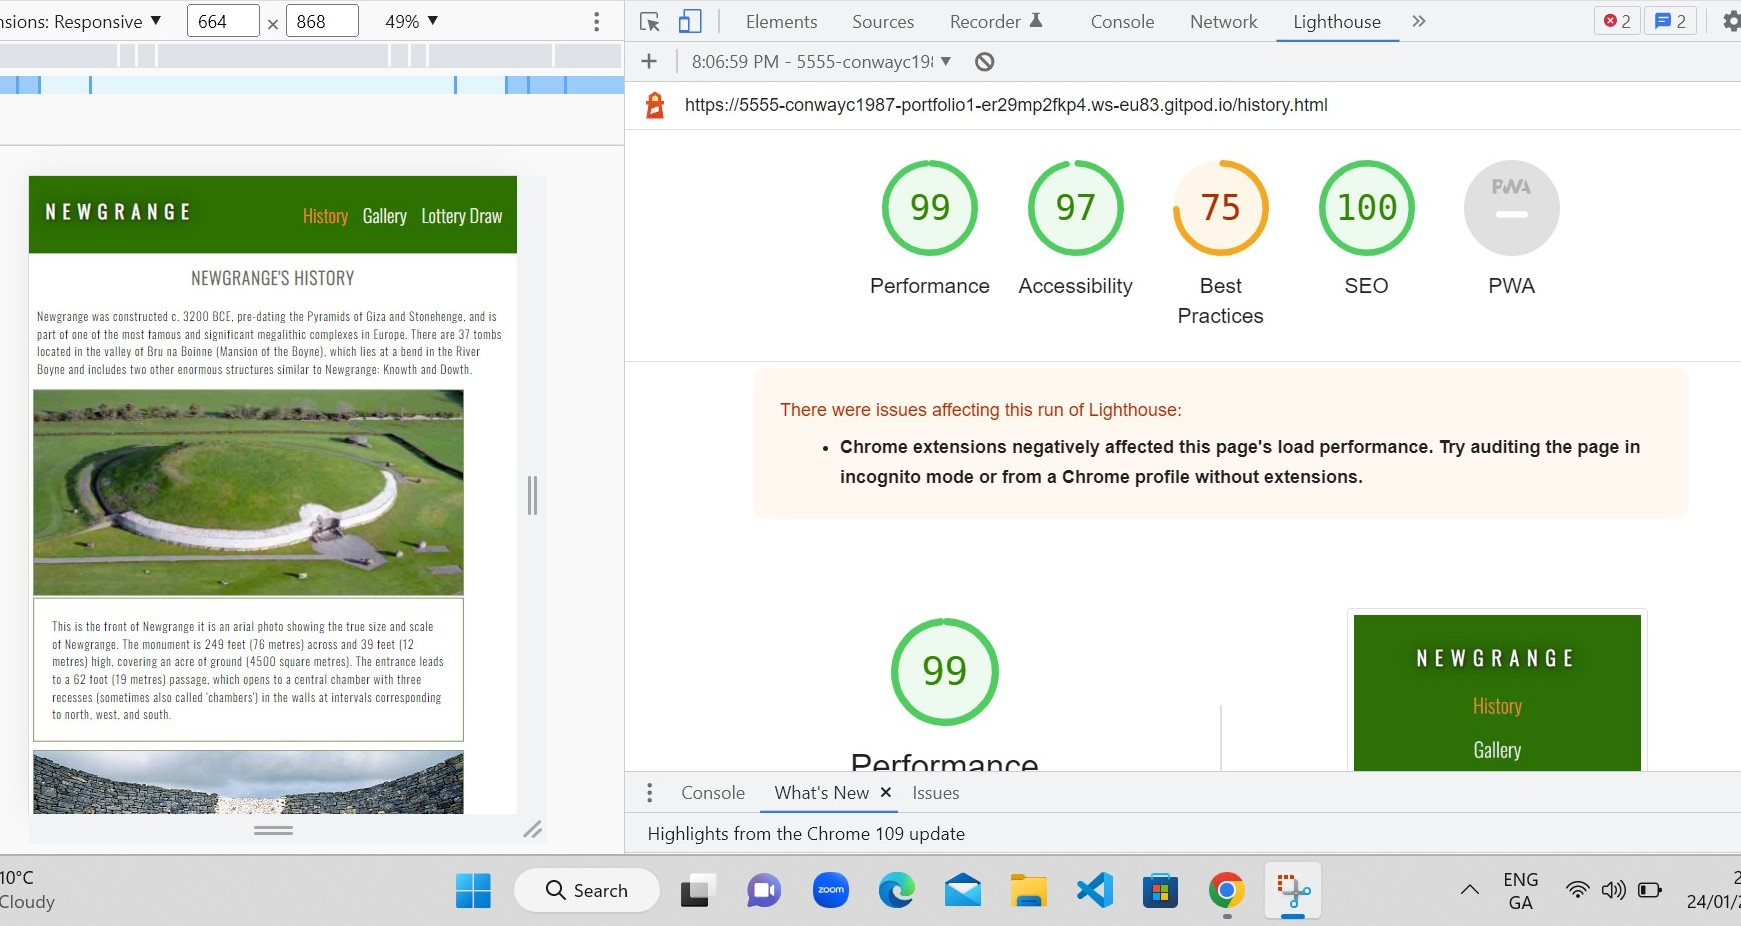
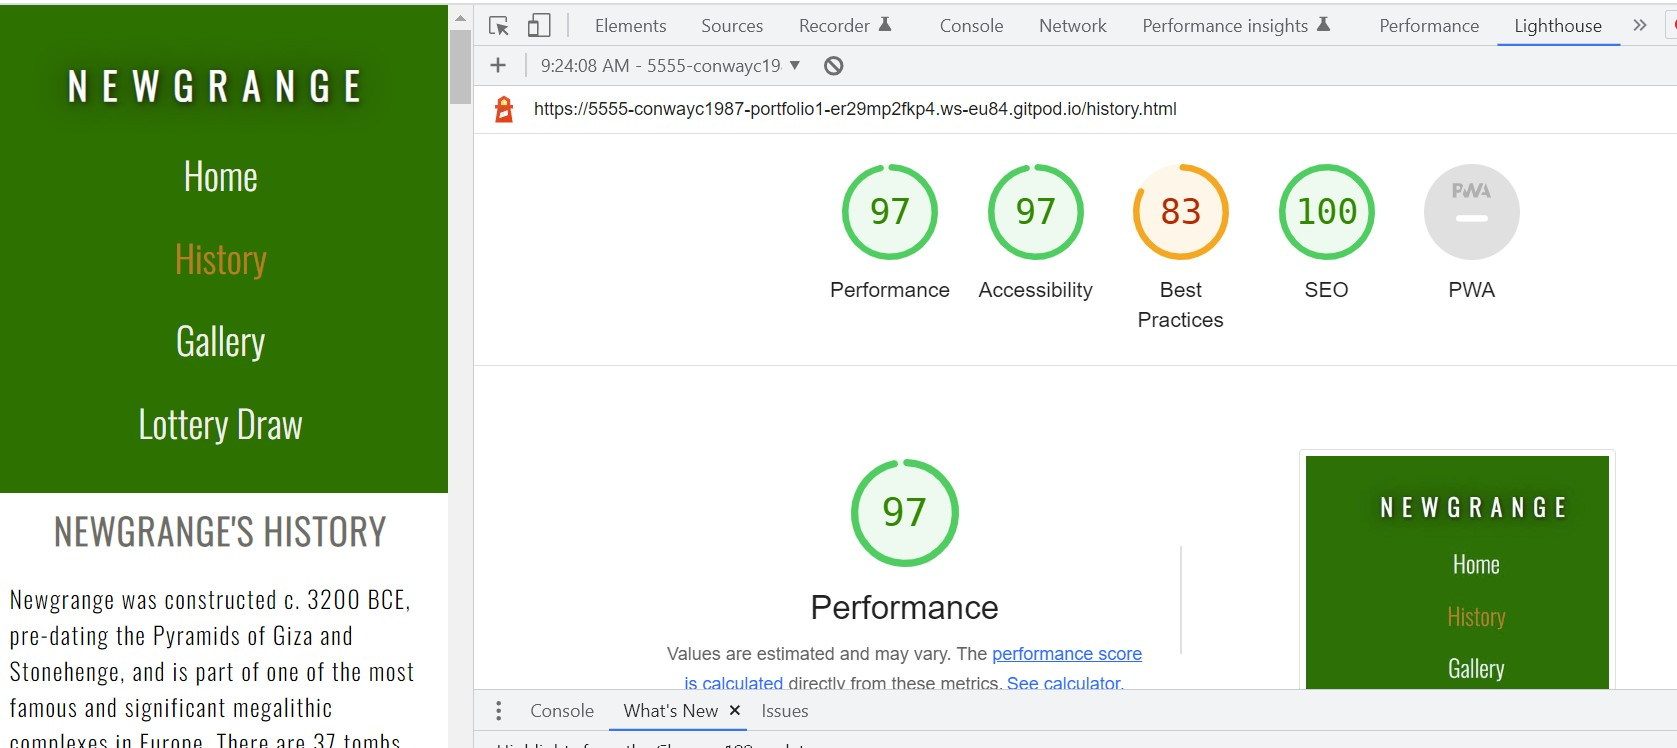
Change images ratio to bring up lighthouse score, updayed images

diff --git a/history.html b/history.html
@@ -56,7 +56,7 @@
             <div class="its-history">
                 <div class="images">
                     <!-- Image got from https://www.newgrange.com/newgrange/newgrange-doehlg.jpg -->
-                    <img src= "assets/images/arial-pic.jpg" alt= "Arial photo of Newgrange">
+                    <img src= "assets/images/newgrange_from_sky.webp" alt= "Arial photo of Newgrange">
                     <!-- Text under the image -->
                     <div class= "desc">
                         <p>
@@ -74,7 +74,7 @@
             <div class="its-history">
                 <div class="images">
                     <!-- Image got from https://www.exploredplanet.com/wp-content/uploads/2020/07/GettyImages-186797999-82007.jpg?width=800&height=533 -->
-                    <img src= "assets/images/entrance.jpg" alt= "The entrance of Newgrange showing the wall art">
+                    <img src= "assets/images/entrance.webp" alt= "The entrance of Newgrange showing the wall art">
                     <!-- Text under the image -->
                     <div class= "desc">
                         <p>
@@ -87,7 +87,7 @@
                     </div>
                 </div>
             </div>
-            <!-- Makes the divs stack on eachother if screen gets small -->
+            <!-- Makes the divs stack on eachother if screen gets small w3schools code -->
             <div class= "clearfix"></div>
 
             <div style= "padding:6px;">
@@ -128,7 +128,7 @@
                 <div class= "its-history">
                     <div class= "images">
                         <!-- Image got from https://cdn.shopify.com/s/files/1/0603/7087/8620/files/Newgrange_roof-slab-diagram.jpg -->
-                        <img src= "assets/images/making-newgrange.jpg"
+                        <img src= "assets/images/Newgrange_roof-slab-diagram.webp"
                             alt= "The builders of Newgrange constructing the wall and roof">
                         <!-- Text under the image -->
                         <div class= "desc">
@@ -168,13 +168,7 @@
                 </p>
             </div>
             <div id= "video">
-                <!-- Video sourced from youtube -->
-                <div style="text-align: center;">
-                    <iframe width="auto" height="auto" src="https://www.youtube.com/embed/c5HG9tCvbws"
-                        title="Brú na Bóinne - The Ancient Monuments Of Newgrange, Knowth, and Dowth" frameborder="0"
-                        allow="accelerometer; autoplay; clipboard-write; encrypted-media; gyroscope; picture-in-picture; web-share"
-                        allowfullscreen></iframe>
-                </div>
+                <iframe width="310" height="auto" src="https://www.youtube.com/embed/2ldH0a_LsX4" title="New Light at Newgrange" frameborder="0" allow="accelerometer; autoplay; clipboard-write; encrypted-media; gyroscope; picture-in-picture; web-share" allowfullscreen></iframe>
             </div>
         </section>
 

diff --git a/gallery.html b/gallery.html
@@ -48,10 +48,10 @@
             <img src= "assets/images/Newgrange-rock-resized.jpg"
                 alt= "Spiral design on the stone at the entrance of Newgrange">
                 <!-- Image got from https://www.worldhistory.org/uploads/images/4050.jpg?v=1599372904 -->
-            <img src="assets/images/entrance.jpg"
+            <img src="assets/images/entrance.webp"
                 alt="Entrance at Newgrange with roof-box, passage-way and entance stone">
                 <!-- Image got from https://www.newgrange.com/newgrange/newgrange-doehlg.jpg -->
-            <img src= "assets/images/arial-pic.jpg" 
+            <img src= "assets/images/arial-pic.webp" 
                 alt= "Photo of Newgrange from the sky showing its true size">
                 <!-- Image made on windows 3d word art -->
             <img src= "assets/images/favicon.ico.webp" height="auto" width="40" 

diff --git a/assets/css/style.css b/assets/css/style.css
@@ -59,11 +59,11 @@ p {
 }
 
 .header a:hover {
-  color: rgb(255, 136, 62);
+  color: rgba(255, 136, 62, 0.705);
 }
 
 .header a.active {
-  color: rgb(255, 136, 62);
+  color: rgba(255, 136, 62, 0.705);
 }
 
 .header-right {
@@ -460,6 +460,8 @@ p {
   height: auto;
   padding-bottom: 20px;
   padding-top: 20px;
+  overflow: auto;
+  text-align: center;
 }
 
 /*__________________________________________________________________________*/
@@ -473,7 +475,7 @@ p {
 }
 
 #photos img {
-  width: 100%;
+  width: 90%;
   height: auto;
 }
 
